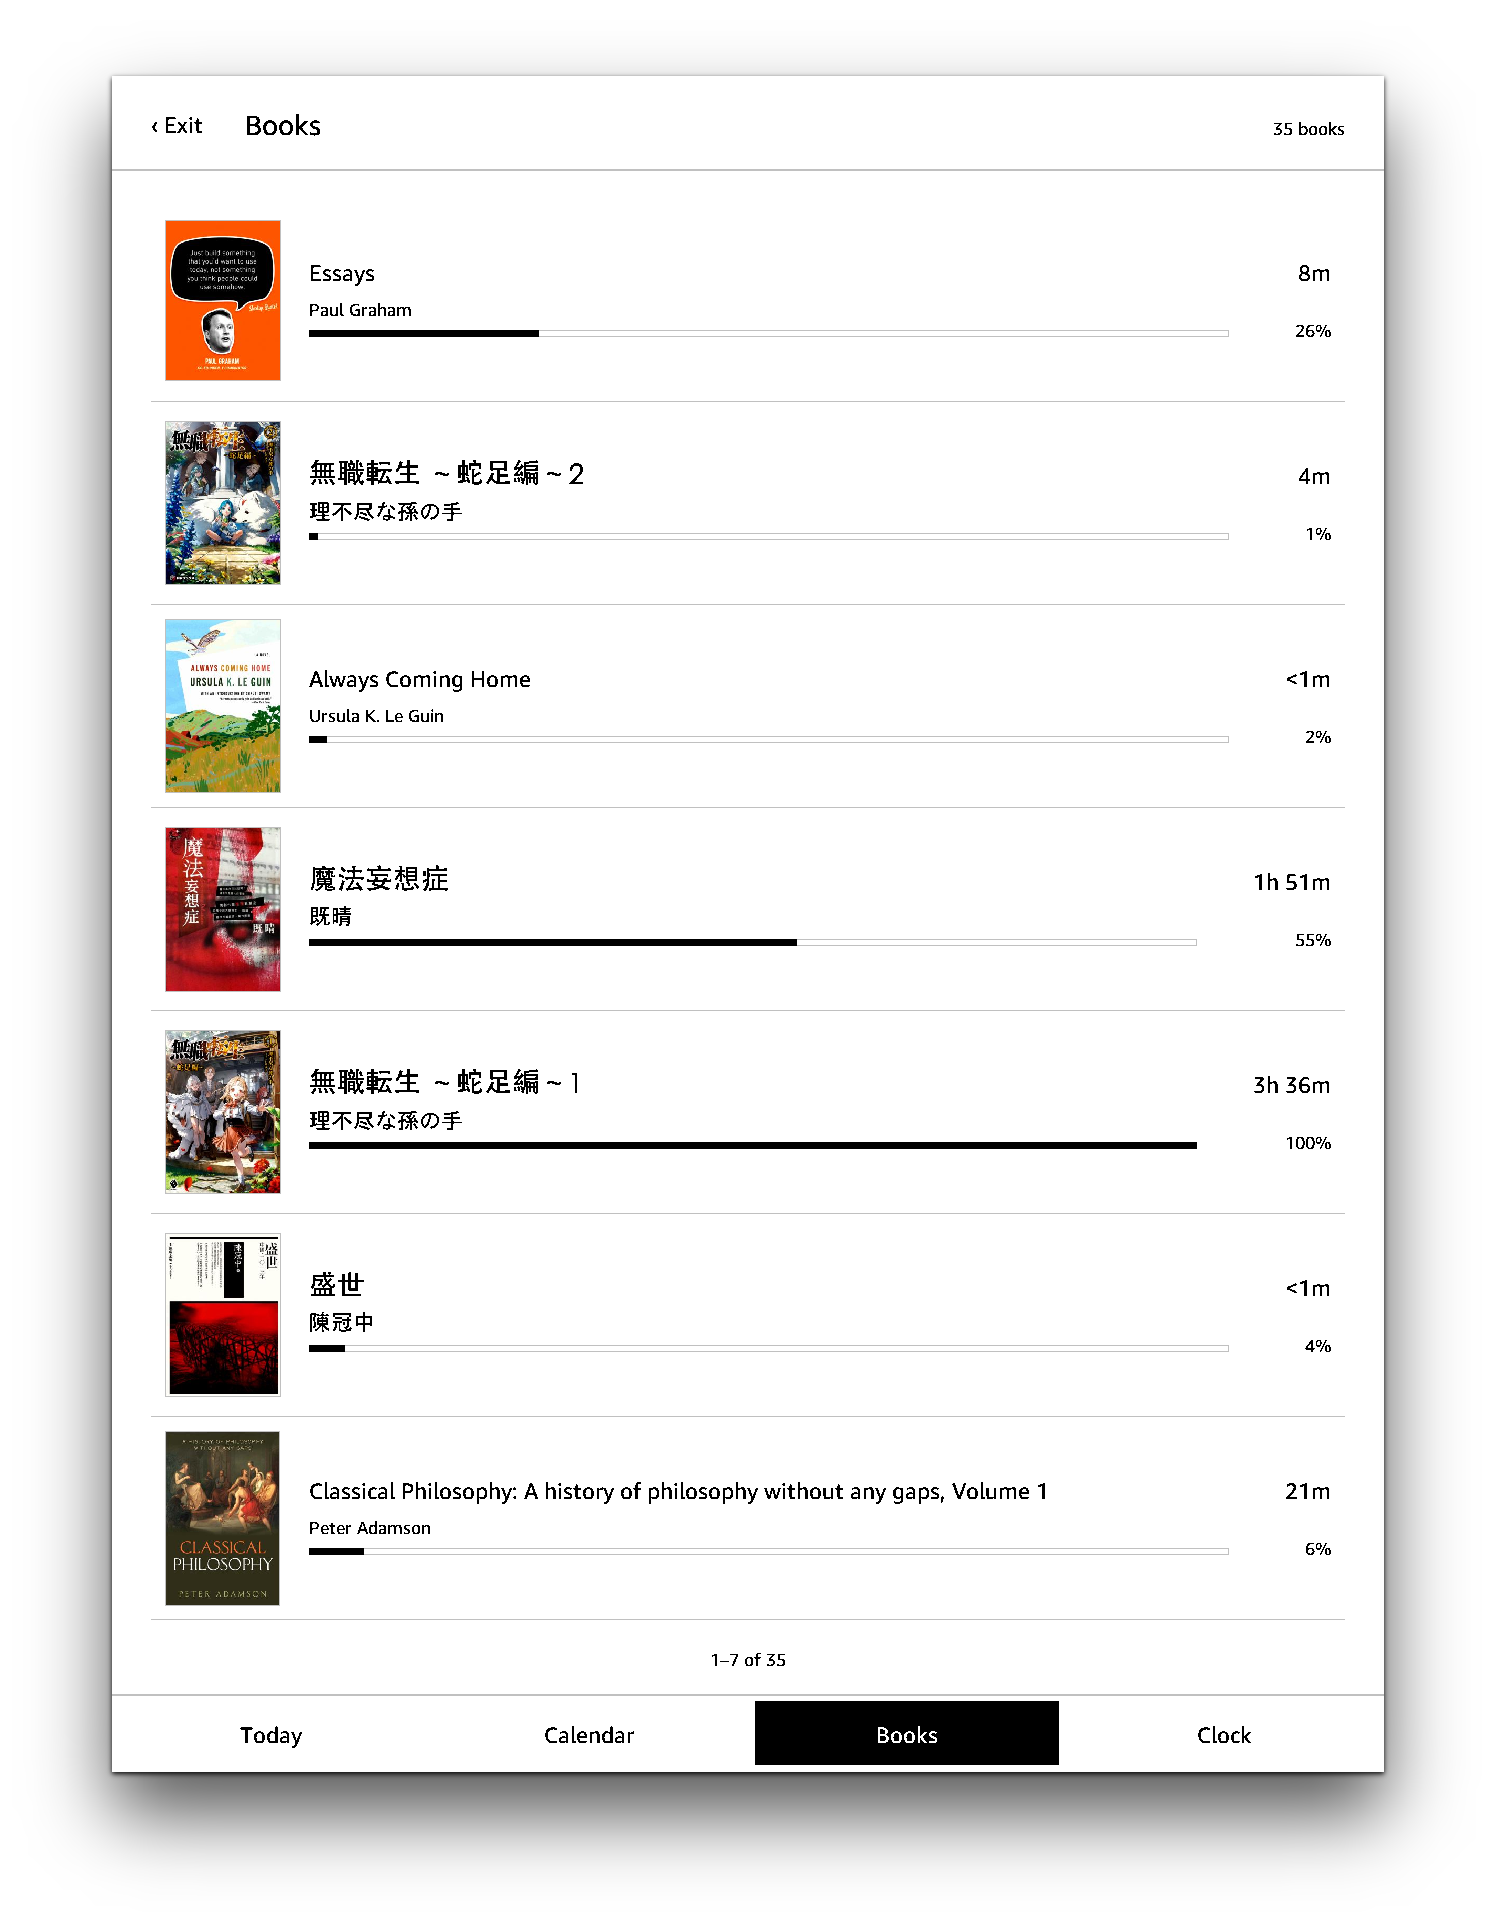
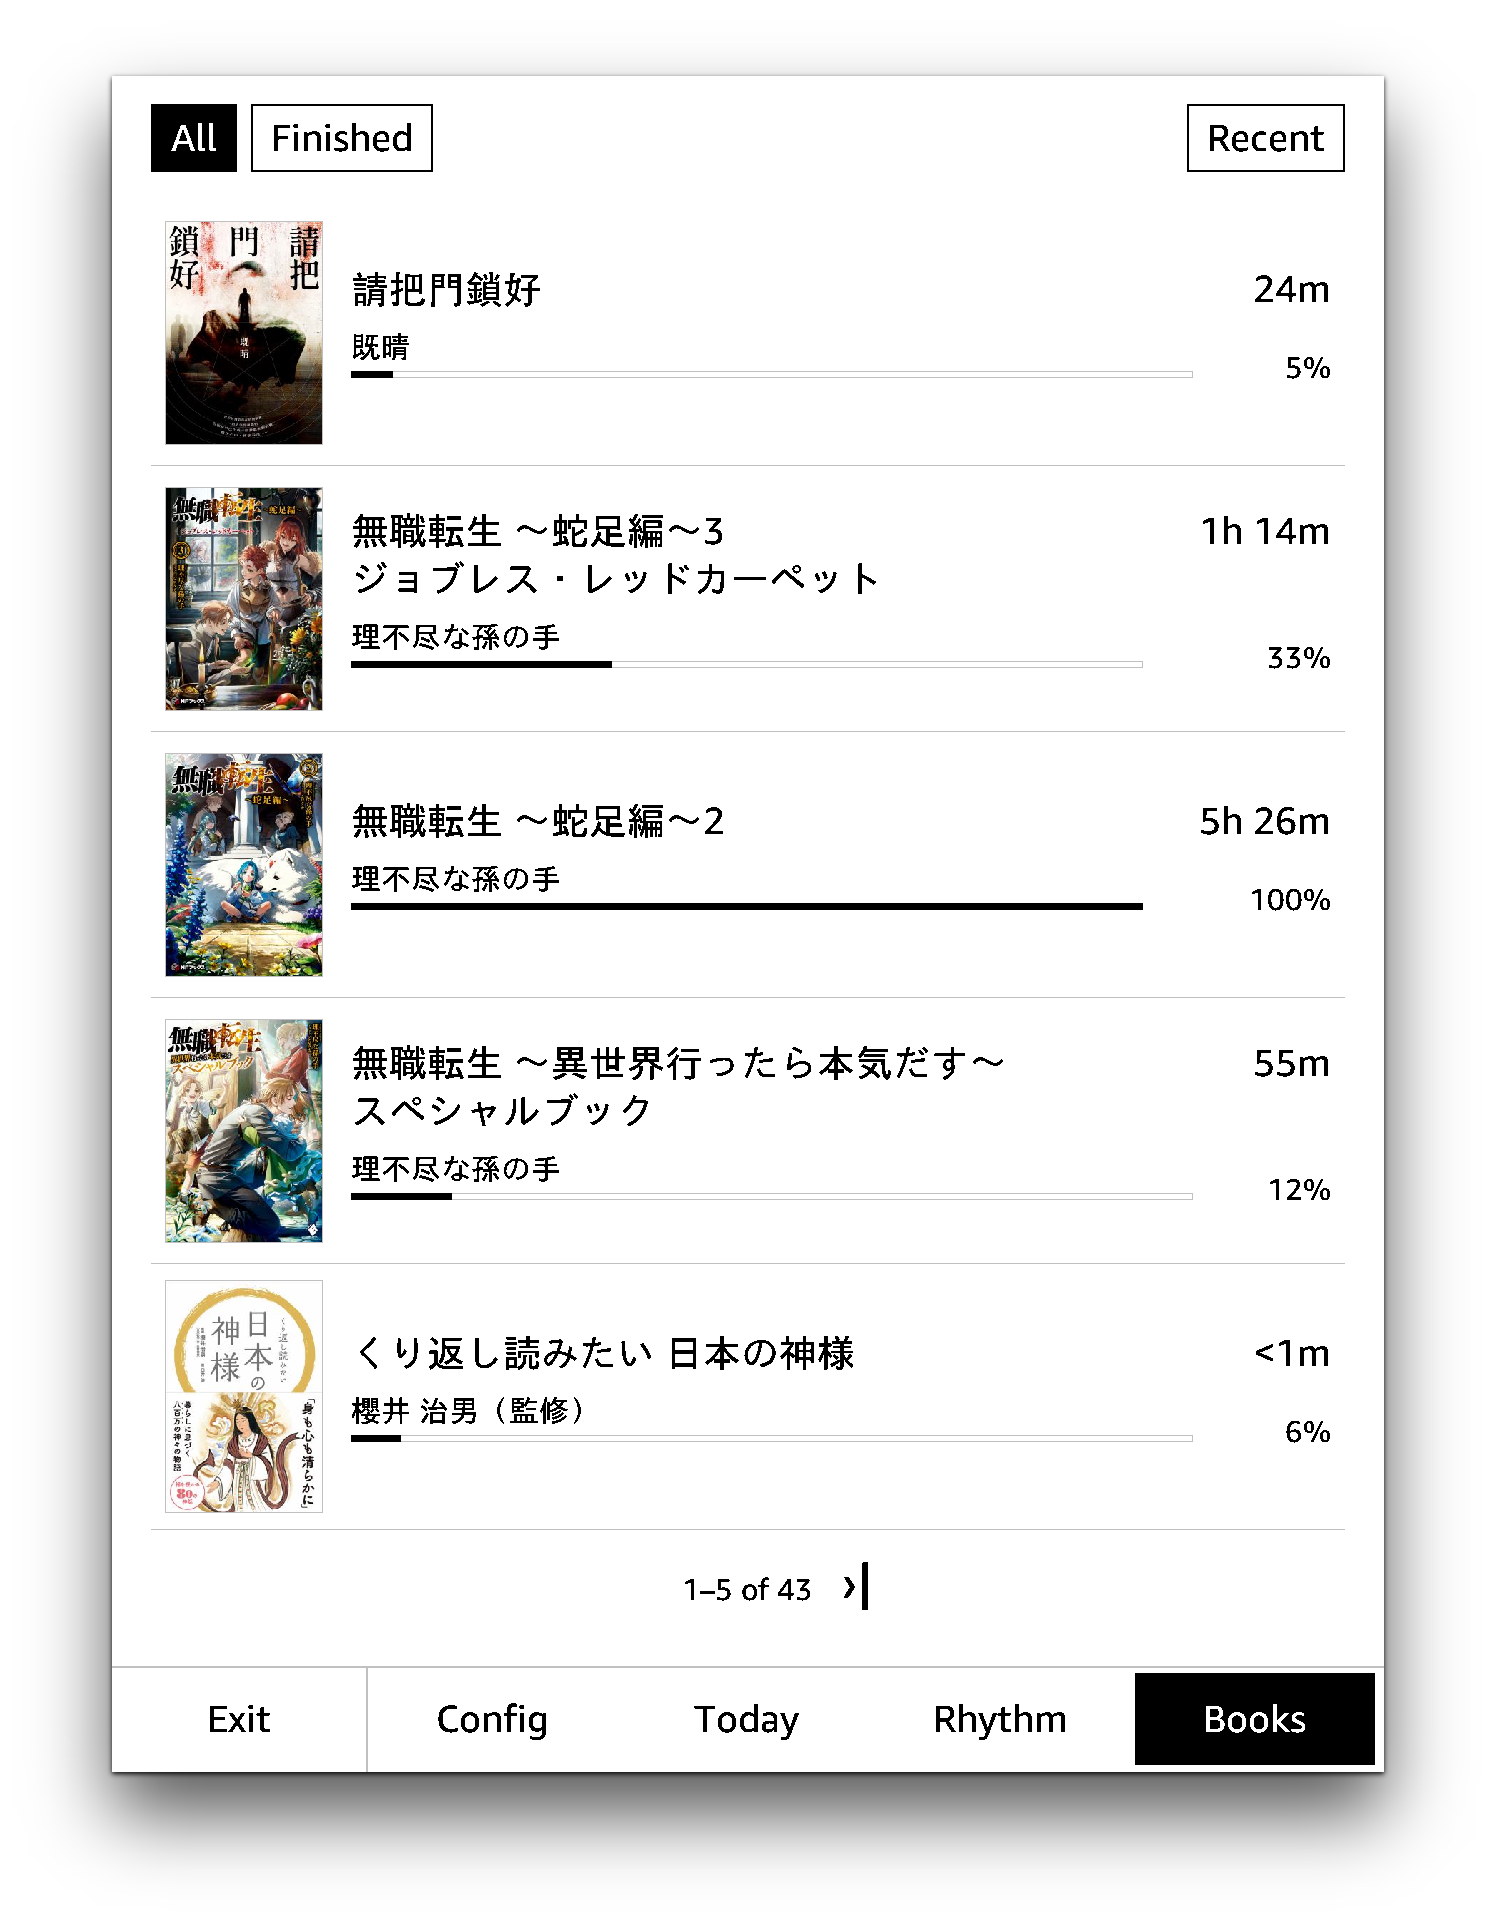
update: README

diff --git a/README.md b/README.md
@@ -18,23 +18,22 @@ Download and unzip the latest `readinglog-v<x.y.z>-kindle.zip` from the [release
 | `extensions/readinglog/` | `/mnt/us/extensions/readinglog/` | it has to be here |
 | `documents/ReadingLog.sh` | `/mnt/us/documents/ReadingLog.sh` | or any subfolders within `documents`  |
 
- ## Screenshots
+## Screenshots
 
 <p align="center">
     <img src=".github/assets/today.png" width="250" alt="Today" />
-    <img src=".github/assets/books.png" width="250" alt="Books" />
-    <img src=".github/assets/clock.png" width="250" alt="Clock" />
+    <img src=".github/assets/book.png" width="250" alt="Book" />
+    <img src=".github/assets/config.png" width="250" alt="Config" />
 </p>
 
-<!--
-<table>
-    <tr>
-        <td><img src=".github/assets/today.png" width="380" alt="Today" /></td>
-        <td><img src=".github/assets/calendar.png" width="380" alt="Calendar" /></td>
-    </tr>
-    <tr>
-        <td><img src=".github/assets/books.png" width="380" alt="Books" /></td>
-        <td><img src=".github/assets/clock.png" width="380" alt="Clock" /></td>
-    </tr>
-</table> -->
+<p align="center">    
+    <img src=".github/assets/books.png" width="250" alt="books" />
+    <img src=".github/assets/rhythm-all-stats.png" width="250" alt="stats" />
+    <img src=".github/assets/rhythm-all-trends.png" width="250" alt="trends" />
+</p>
 
+<p align="center">
+    <img src=".github/assets/rhythm-year.png" width="250" alt="year" />
+    <img src=".github/assets/rhythm-month.png" width="250" alt="month" />
+    <img src=".github/assets/rhythm-week.png" width="250" alt="week" />
+</p>
